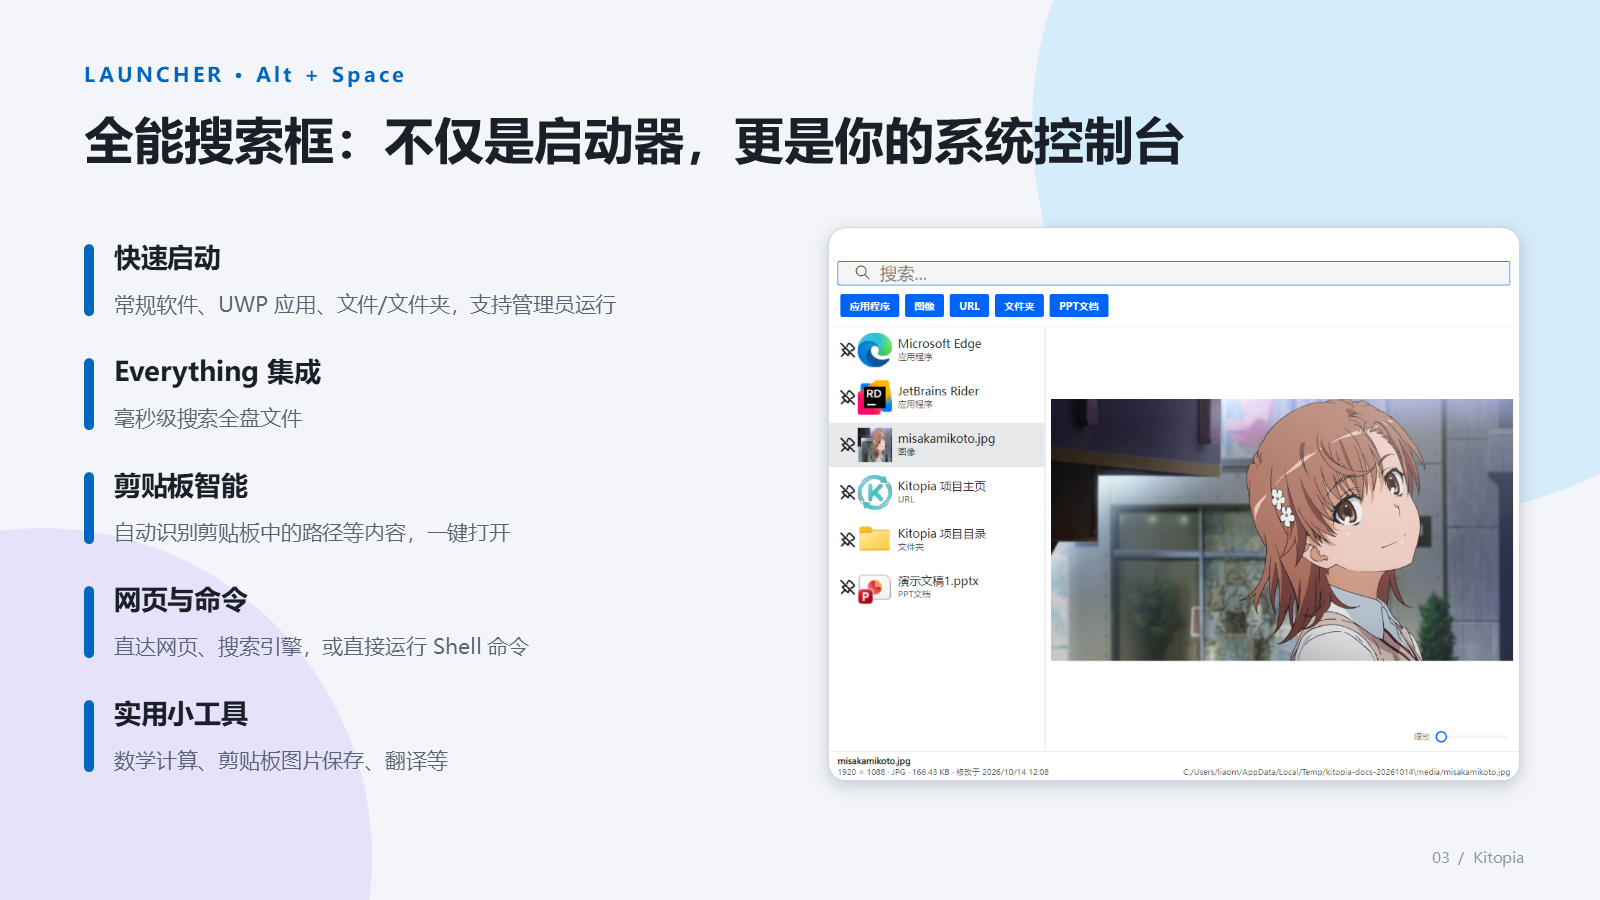
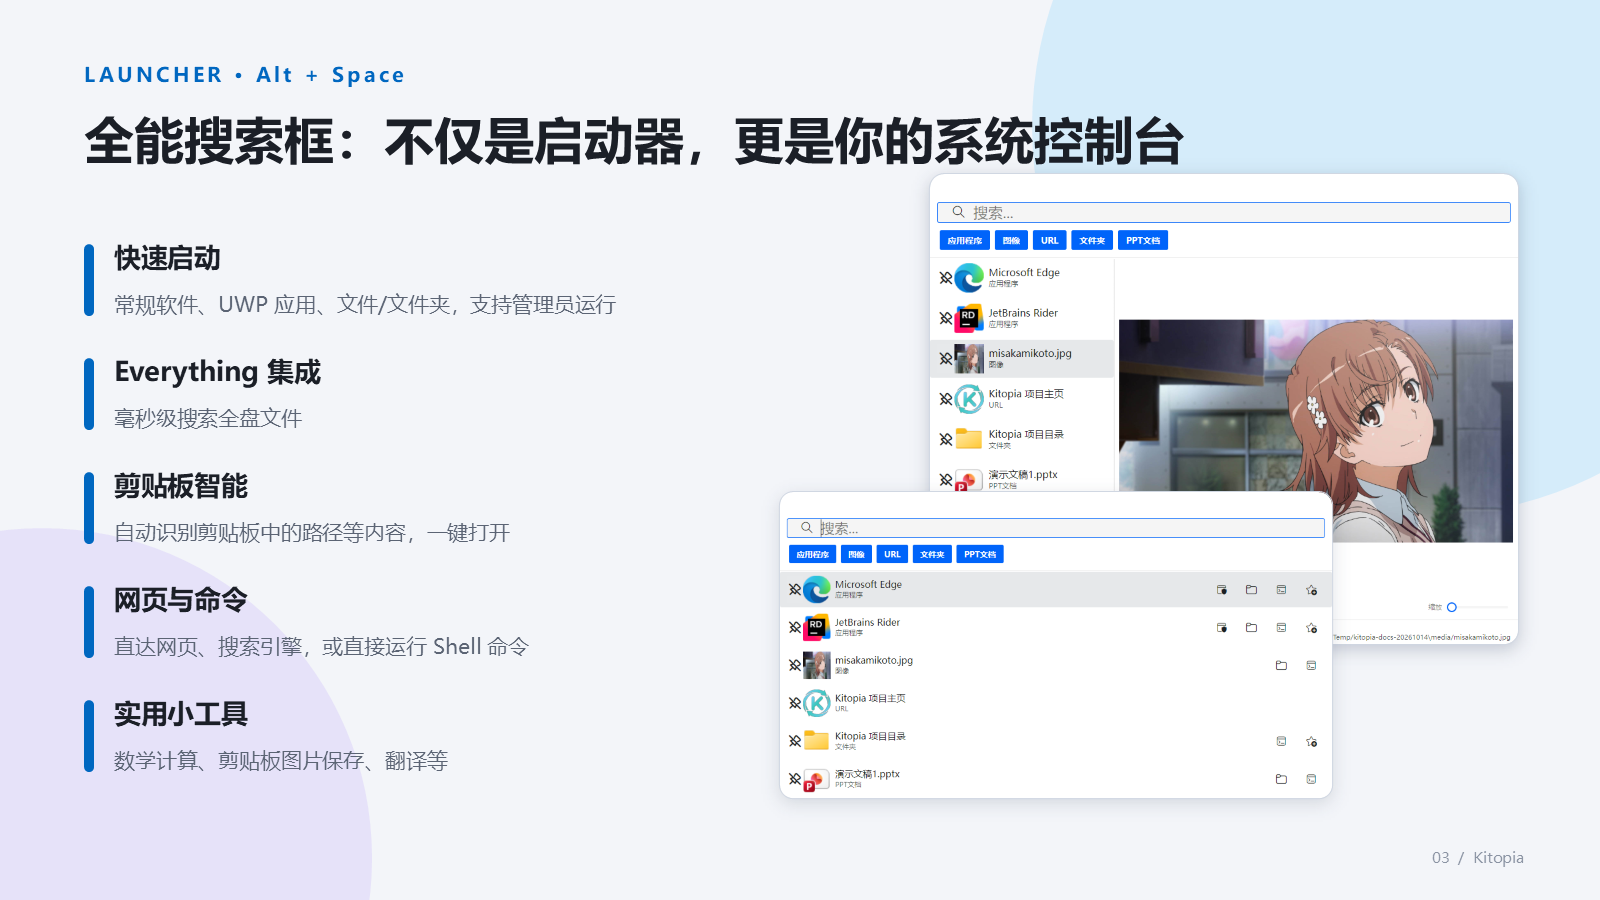
docs(readme): 更新搜索与预览功能描述，增强用户理解

Changed region(s): [[0.4688, 0.1867, 0.9688, 0.9022]]

diff --git a/docs/en-us/README.md b/docs/en-us/README.md
@@ -38,9 +38,9 @@ Hit the ground running with these intuitive default shortcuts:
 
 ### 1. All-in-One Search & Launcher
 
-![Fast Search and App Launcher](../assets/README/ppt-search-en-20261014.png)
+![Search List and Split Preview Modes](../assets/README/ppt-search-en-20261014.png)
 
-Open search with `Alt + Space`, with Pinyin matching, history, favorites, and pins. Everything provides full-disk file search. Local AI can find files by document content or image descriptions and requires configured models and an inference backend.
+Open search with `Alt + Space` to launch apps, open files and folders, recognize clipboard paths, visit websites, and run shell commands. Switch between list and split preview modes, with Pinyin matching, history, favorites, and pins. Everything provides full-disk file search. Local AI can find files by document content or image descriptions and requires configured models and an inference backend.
 
 Image source: [Misaka Mikoto, A Certain Scientific Railgun T official character page](https://toaru-project.com/railgun_t/chara/mikoto.html).
 
@@ -48,9 +48,9 @@ Image source: [Misaka Mikoto, A Certain Scientific Railgun T official character 
 
 ### 2. Spacebar File Preview (Quick Look)
 
-![Quick Look PDF Preview and Page Navigation](../assets/README/file-preview-en-20261014.png)
+![Quick Look PDF Reading and In-Search Preview](../assets/README/ppt-quick-look-en-20261014.png)
 
-Select a PDF in Windows Explorer and press `Space` to preview, navigate pages, zoom, and search the document. Images, text, code, and archives are also supported, with an optional preview pane in search. PDF previews require WebView2 Runtime.
+Select a file in Windows Explorer and press `Space`, or switch to preview mode in search. PDFs support zoom, page navigation, rotation, and text search. View files full screen, check their size and modification time, or choose "Open file" to continue in the default application. Images, text, code, and archives are also supported. PDF previews require WebView2 Runtime.
 
 ---
 

diff --git a/docs/README.md b/docs/README.md
@@ -38,9 +38,9 @@
 
 ### 1. 全能搜索与全局启动中心
 
-![极速搜索与应用启动](assets/README/ppt-search-20261014.png)
+![全能搜索：列表模式与分栏预览](assets/README/ppt-search-20261014.png)
 
-`Alt + Space` 唤出搜索框，支持拼音匹配、历史收藏与置顶。Everything 提供全盘文件检索；本地 AI 可按文档内容或图片描述查找文件，需要配置模型和推理后端。
+`Alt + Space` 唤出搜索框，启动应用、打开文件或文件夹，也可识别剪贴板路径、访问网页和运行 Shell 命令。支持列表模式与分栏预览、拼音匹配、历史收藏与置顶。Everything 提供全盘文件检索；本地 AI 可按文档内容或图片描述查找文件，需要配置模型和推理后端。
 
 图片素材：[《某科学的超电磁炮 T》御坂美琴角色页面](https://toaru-project.com/railgun_t/chara/mikoto.html)。
 
@@ -48,9 +48,9 @@
 
 ### 2. 空格秒速文件预览（Quick Look）
 
-![Quick Look PDF 预览与分页阅读](assets/README/file-preview-20261014.png)
+![Quick Look：PDF 阅读与搜索结果预览](assets/README/ppt-quick-look-20261014.png)
 
-在 Windows 资源管理器中选中 PDF 后按 `Space`，即可预览、翻页、缩放和搜索文档。也支持图片、文本、代码和压缩包，搜索结果可打开分栏预览。PDF 预览需要 WebView2 Runtime。
+在 Windows 资源管理器中选中文件后按 `Space`，或在搜索框中切换预览模式，即可查看文件内容。PDF 支持缩放、翻页、旋转与搜索；可全屏查看，底部显示文件大小与修改时间，点击“打开文件”可用默认程序继续操作。也支持图片、文本、代码和压缩包。PDF 预览需要 WebView2 Runtime。
 
 ---
 
